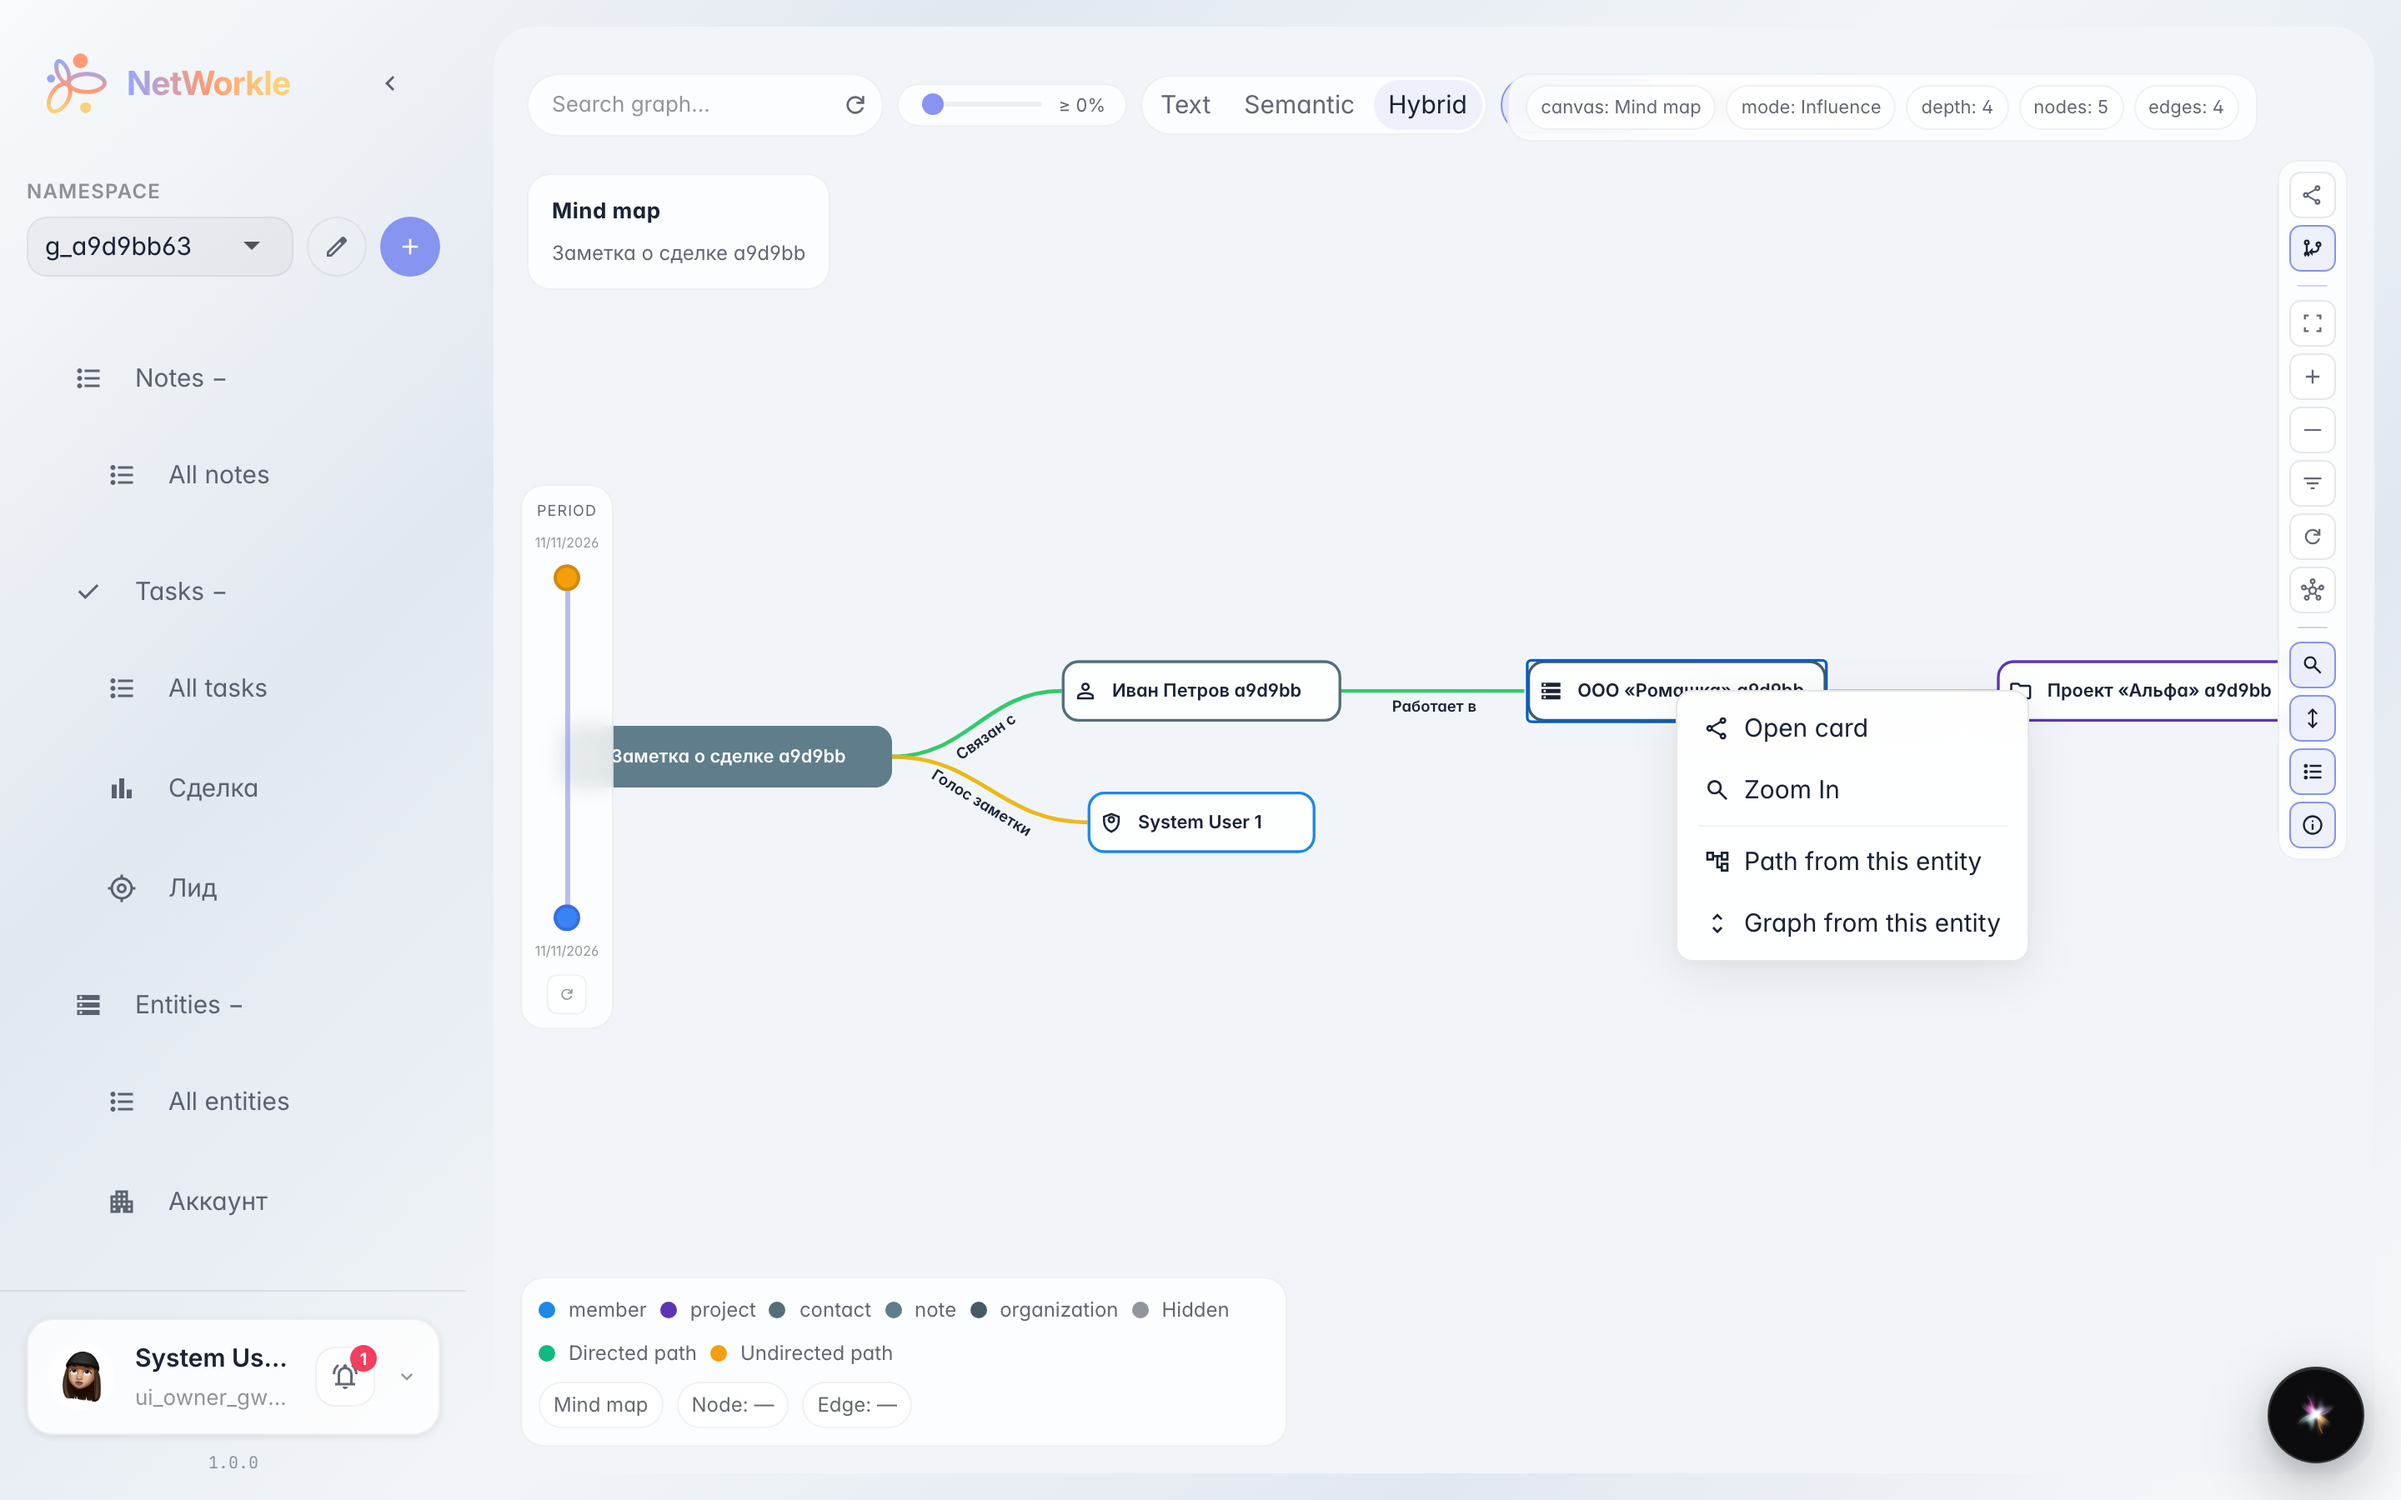
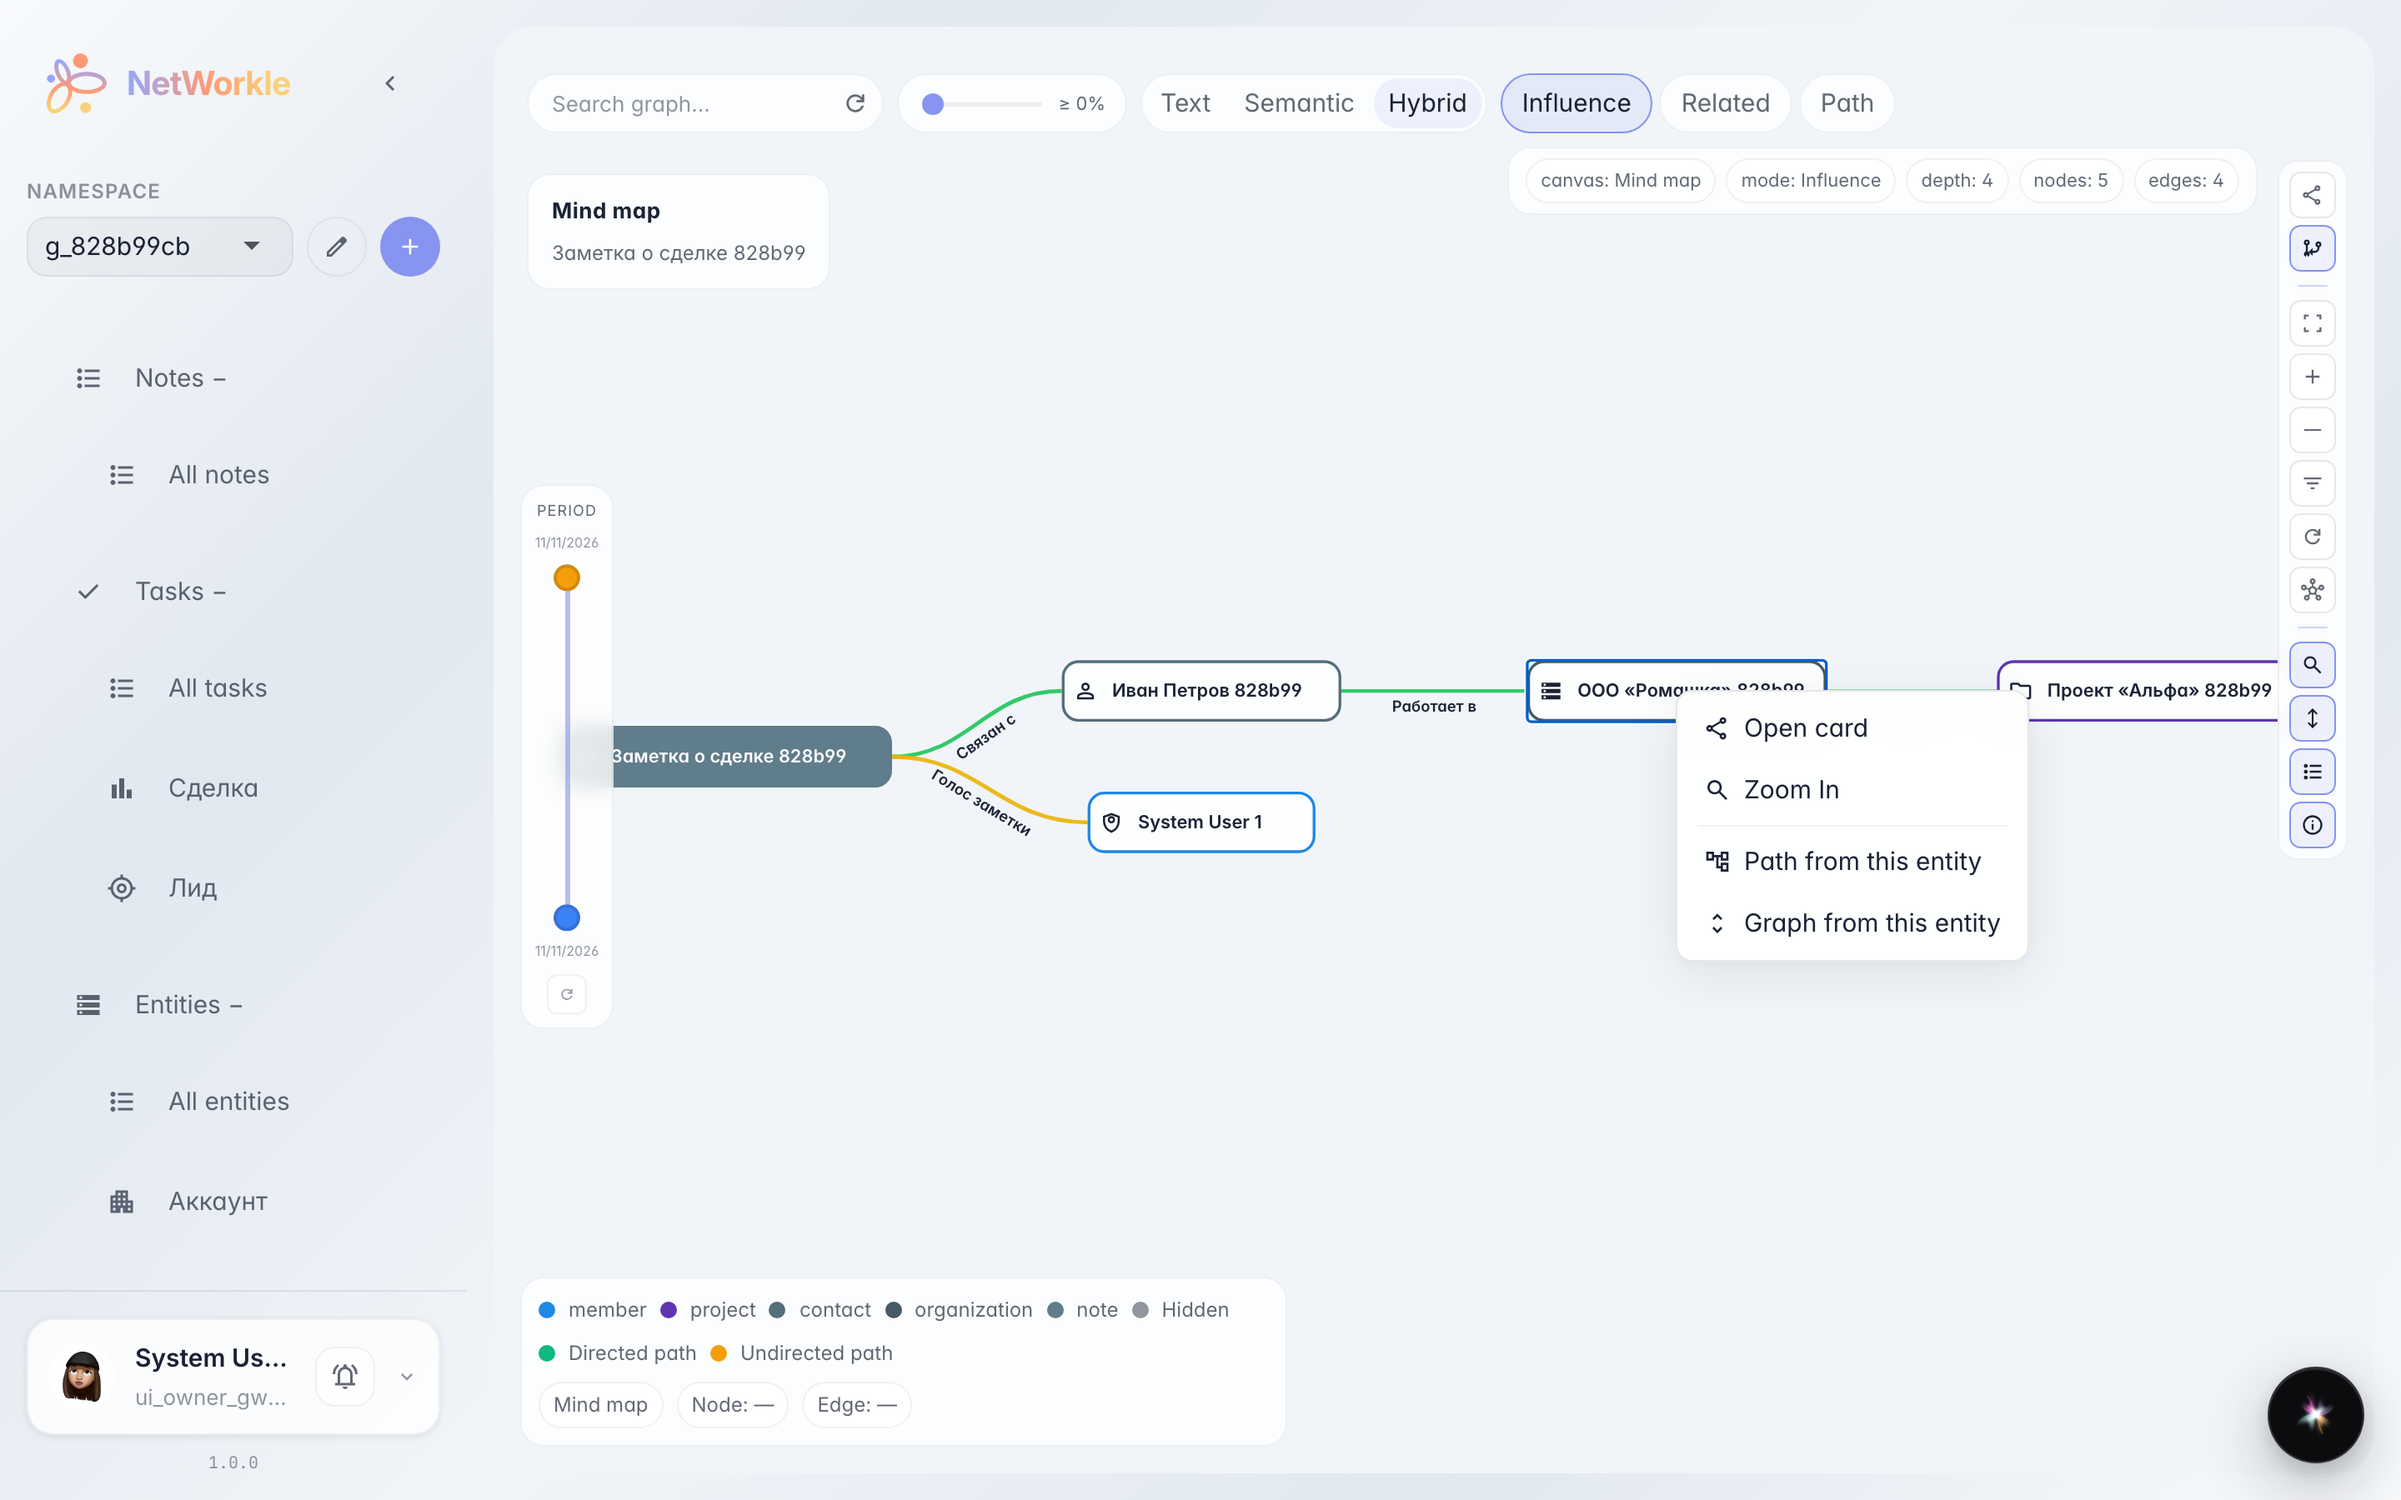
ui: каноничный theme-ключ в e2e-харнесе + правки тулбара графа CRM
- харнес писал legacy platform_theme, приложение читает platform:core:theme —
  из-за этого WebGL-канва графа оставался тёмным при светлой оболочке;
- _canvasPathHint хранил переведённую строку, вычисленную до загрузки
  i18n-бандла — в state навсегда оставался сырой ключ; теперь state держит
  ключ, перевод — в render;
- overlay-meta перекрывал пилюли режима графа — сдвинут под строку контролов;
- score-threshold выровнен по высоте с остальными контролами (36px).

Generated with [Devin](https://devin.ai)

diff --git a/apps/crm/ui/components/crm-graph-workspace.ts b/apps/crm/ui/components/crm-graph-workspace.ts
@@ -405,7 +405,7 @@ export class CRMGraphWorkspace extends PlatformElement {
 
             .overlay-meta {
                 position: absolute;
-                top: 20px;
+                top: 64px;
                 right: 70px;
                 z-index: 12;
                 display: flex;
@@ -645,7 +645,7 @@ export class CRMGraphWorkspace extends PlatformElement {
 
     override connectedCallback(): void {
         super.connectedCallback();
-        this._canvasPathHint = this.t('graph_page.hint_browse');
+        this._canvasPathHint = 'graph_page.hint_browse';
 
         this.useEvent(CoreEvents.ROUTER_ROUTE_CHANGED, () => {
             this._onGraphRouterChanged();
@@ -1112,7 +1112,7 @@ export class CRMGraphWorkspace extends PlatformElement {
             this._shortestPathEdges = [];
             this._graphNodes = [];
             this._graphEdges = [];
-            this._canvasPathHint = this.t('graph_page.hint_route_not_found');
+            this._canvasPathHint = 'graph_page.hint_route_not_found';
             this.toast('crm:graph_page.warn_path_not_found', {
                 type: 'warning',
                 vars: { source: this._pathSourceId, target: this._pathTargetId },
@@ -1148,7 +1148,7 @@ export class CRMGraphWorkspace extends PlatformElement {
         this._graphNodes = nodes;
         this._graphEdges = merged;
         this._canvasPathState = 'built';
-        this._canvasPathHint = this.t('graph_page.hint_routes_dual');
+        this._canvasPathHint = 'graph_page.hint_routes_dual';
     }
 
     _mergePathEdgesByKind(directedEdges: Record<string, unknown>[], undirectedEdges: Record<string, unknown>[]): Record<string, unknown>[] {
@@ -1435,7 +1435,7 @@ export class CRMGraphWorkspace extends PlatformElement {
         if (this._graphDataMode !== 'influence') this._defaultOverviewActive = false;
         if (this._graphDataMode !== 'path') {
             this._canvasPathState = 'idle';
-            this._canvasPathHint = this.t('graph_page.hint_browse');
+            this._canvasPathHint = 'graph_page.hint_browse';
         }
         this._rebuildGraphByMode();
     }
@@ -1467,12 +1467,12 @@ export class CRMGraphWorkspace extends PlatformElement {
             this._pathSourceId = node.id;
             this._pathTargetId = '';
             this._canvasPathState = 'pick_target';
-            this._canvasPathHint = this.t('graph_page.hint_click_target');
+            this._canvasPathHint = 'graph_page.hint_click_target';
             return;
         }
         if (this._canvasPathState === 'pick_target') {
             if (node.id === this._pathSourceId) {
-                this._canvasPathHint = this.t('graph_page.hint_pick_other_target');
+                this._canvasPathHint = 'graph_page.hint_pick_other_target';
                 this.toast('crm:graph_page.warn_source_target_same', { type: 'warning' });
                 return;
             }
@@ -1598,7 +1598,7 @@ export class CRMGraphWorkspace extends PlatformElement {
             this._pathTargetId = '';
             this._graphDataMode = 'path';
             this._canvasPathState = 'pick_target';
-            this._canvasPathHint = this.t('graph_page.hint_click_target');
+            this._canvasPathHint = 'graph_page.hint_click_target';
         } else if (action === 'graph-from' && nodeId) {
             this._applyGraphFromNode(nodeId);
         }
@@ -1687,7 +1687,7 @@ export class CRMGraphWorkspace extends PlatformElement {
         }
         if (actionId === 'path_mode') {
             this._canvasPathState = 'pick_source';
-            this._canvasPathHint = this.t('graph_page.hint_click_source');
+            this._canvasPathHint = 'graph_page.hint_click_source';
             this._graphDataMode = 'path';
             this._entitySearchQuery = '';
             this._shortestPathEdges = [];
@@ -1705,7 +1705,7 @@ export class CRMGraphWorkspace extends PlatformElement {
         }
         if (actionId === 'reset_path') {
             this._canvasPathState = 'idle';
-            this._canvasPathHint = this.t('graph_page.hint_browse');
+            this._canvasPathHint = 'graph_page.hint_browse';
             this._pathSourceId = '';
             this._pathTargetId = '';
             this._shortestPathEdges = [];
@@ -1768,7 +1768,7 @@ export class CRMGraphWorkspace extends PlatformElement {
             this._graphDataMode = 'influence';
             this._defaultOverviewActive = this._canvasView !== 'mindmap';
             this._canvasPathState = 'idle';
-            this._canvasPathHint = this.t('graph_page.hint_browse');
+            this._canvasPathHint = 'graph_page.hint_browse';
             this._shortestPathEdges = [];
             this._reloadAll();
             return;
@@ -1976,7 +1976,7 @@ export class CRMGraphWorkspace extends PlatformElement {
                     <crm-graph-legend
                         .nodes=${this._graphNodes}
                         .entityTypeColors=${entityTypeColors}
-                        .canvasHint=${this._canvasView === 'mindmap' ? this.t('mindmap.overlay_title') : this._canvasPathHint}
+                        .canvasHint=${this._canvasView === 'mindmap' ? this.t('mindmap.overlay_title') : (this._canvasPathHint ? this.t(this._canvasPathHint) : '')}
                         .selectedNodeId=${this._selectedNodeId}
                         .selectedEdgeId=${this._selectedEdgeId}
                     ></crm-graph-legend>

diff --git a/apps/crm/ui/components/graph-search-pill.ts b/apps/crm/ui/components/graph-search-pill.ts
@@ -51,10 +51,16 @@ export class CRMGraphSearchPill extends PlatformElement {
                 pointer-events: none;
             }
 
+            :host {
+                --graph-control-height: 36px;
+            }
+
             .pill {
                 display: flex;
                 align-items: center;
                 gap: 0;
+                height: var(--graph-control-height);
+                box-sizing: border-box;
                 background: var(--glass-solid-subtle);
                 border: 1px solid var(--glass-border-subtle);
                 border-radius: 999px;
@@ -68,7 +74,8 @@ export class CRMGraphSearchPill extends PlatformElement {
                 background: transparent;
                 color: var(--text-primary);
                 font-size: 13px;
-                padding: 8px 14px;
+                padding: 0 14px;
+                height: 100%;
                 width: 180px;
                 outline: none;
             }
@@ -100,7 +107,9 @@ export class CRMGraphSearchPill extends PlatformElement {
             .mode-pill {
                 display: inline-flex;
                 align-items: center;
-                padding: 5px 10px;
+                height: var(--graph-control-height);
+                box-sizing: border-box;
+                padding: 0 12px;
                 border-radius: 999px;
                 border: 1px solid var(--glass-border-subtle);
                 background: var(--glass-solid-subtle);
@@ -126,6 +135,8 @@ export class CRMGraphSearchPill extends PlatformElement {
                 display: flex;
                 align-items: center;
                 gap: 2px;
+                height: var(--graph-control-height);
+                box-sizing: border-box;
                 pointer-events: auto;
                 background: var(--glass-solid-subtle);
                 border: 1px solid var(--glass-border-subtle);
@@ -161,11 +172,13 @@ export class CRMGraphSearchPill extends PlatformElement {
                 display: flex;
                 align-items: center;
                 gap: 6px;
+                height: var(--graph-control-height);
+                box-sizing: border-box;
                 pointer-events: auto;
                 background: var(--glass-solid-subtle);
                 border: 1px solid var(--glass-border-subtle);
                 border-radius: 999px;
-                padding: 4px 12px;
+                padding: 0 12px;
                 backdrop-filter: blur(6px);
             }
 

diff --git a/tests/ui/scenario_doc.py b/tests/ui/scenario_doc.py
@@ -74,7 +74,7 @@ async def _force_light_theme(page: Page) -> None:
         """
         () => {
             try {
-                window.localStorage.setItem('platform_theme', 'light');
+                window.localStorage.setItem('platform:core:theme', 'light');
             } catch (_) {}
             document.documentElement.removeAttribute('data-platform-theme-lock');
             document.documentElement.setAttribute('data-theme', 'light');

diff --git a/tests/ui/conftest.py b/tests/ui/conftest.py
@@ -26,7 +26,7 @@ from tests.ui.subdomain_setup import ensure_ui_subdomain_mappings
 _FORCE_LIGHT_THEME_INIT_SCRIPT = """
 (() => {
     try {
-        window.localStorage.setItem('platform_theme', 'light');
+        window.localStorage.setItem('platform:core:theme', 'light');
         window.localStorage.setItem('pwa-banner-dismissed', 'true');
     } catch (_) {}
     const root = document.documentElement;
